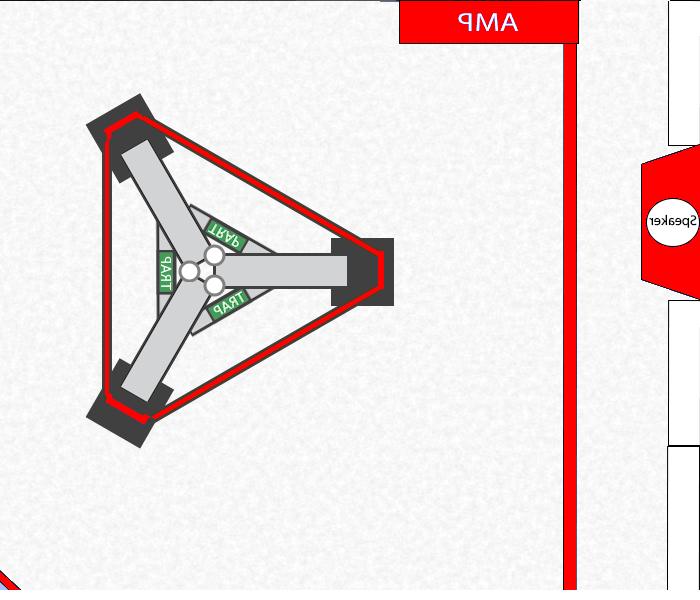
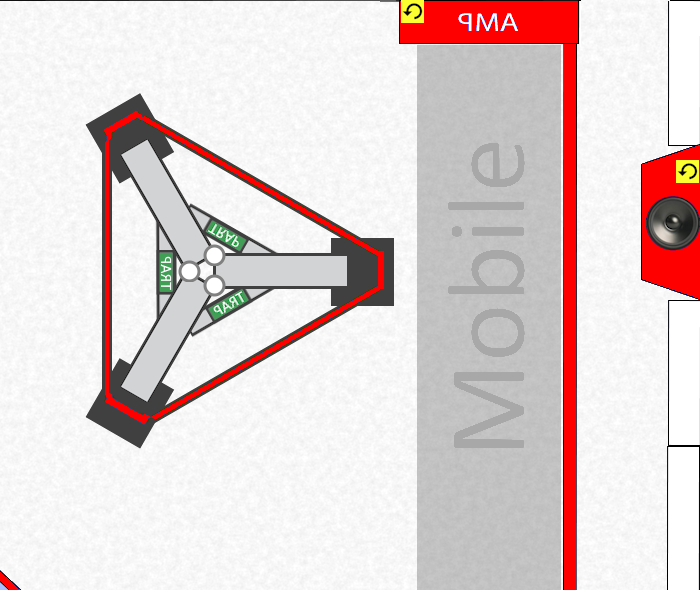
Fixed images and the ability to be mobile

Changed region(s): [[0.57, 0.06, 0.81, 0.99], [0.9, 0.27, 1.0, 0.42], [0.57, 0.0, 0.63, 0.06]]

diff --git a/server.js b/server.js
@@ -585,12 +585,18 @@ function connected(socket) {
         if (markerType == '')
             return; // marker is out of bounds
 
+
         // check the location of the marker to see if it is a valid placement for the gamestate
         //let markerPlacement = allianceGamePlay.playingField.getFieldLocation(drawMarker)
         
 
 
-
+        // the team is already mobile so skip the new marker
+        if (team.isMobile() && markerType == 'Mobility' && !(allianceGamePlay.getMarker(markerId)))
+            {
+                return;
+            }
+        
         // check to see if the marker does not already exist
         // if isMarkedOnce is false then we want to allow it to click multiple times
         let isMarkerPresent = false;
@@ -992,7 +998,7 @@ function initGame() //
     //console.log(fw.getMatchData())
 
     field.blue = new gp.Field(assets.blue, 700, 565)
-    field.red = new gp.Field(assets.red, 700, 600)
+    field.red = new gp.Field(assets.red, 700, 565)
 
     grid.blue = new gp.Grid(field.blue.width, field.blue.height, 25, 20)  
     grid.red = new gp.Grid(field.red.width, field.red.height, 25, 20)

diff --git a/Rooms/client.js b/Rooms/client.js
@@ -21,6 +21,7 @@ let scoreItems = {
     autonSpeakerScore: document.getElementById("autonSpeakerScore"),
     autonTrapCount: document.getElementById("autonTrapCount"),
     autonTrapScore: document.getElementById("autonTrapScore"),
+    autonMobileScore: document.getElementById("autonMobileScore"),
     teleopAmpCount: document.getElementById("teleopAmpCount"),
     teleopAmpScore: document.getElementById("teleopAmpScore"),
     teleopSpeakerCount: document.getElementById("teleopSpeakerCount"),
@@ -79,7 +80,7 @@ socket.on("drawfield", (gameField, gameGrid) => {
 })
 
 socket.on("placeMarker", (marker) => {
-    alert(JSON.stringify(marker))
+    //alert(JSON.stringify(marker))
     if (marker.isSingleSpace == "true" && marker.isMarkedOnce == "true")
         grid.drawImage(marker)
     else if (marker.isSingleSpace == "false" && marker.isMarkedOnce == "false")
@@ -105,7 +106,6 @@ socket.on("clear", () => {
 })
 
 socket.on("draw", (markers) => {
-    alert(JSON.stringify(markers))
     for (let index in markers) {
 
         let marker = markers[index]

diff --git a/Rooms/userInput.js b/Rooms/userInput.js
@@ -85,7 +85,7 @@ class Grid
         }
     }
     placeMarker(x, y, markerColor, gameState) {
-        alert("hello")
+        //alert("hello")
         this.ctx.fillStyle = 'rgba(' + markerColor.red + ',' + markerColor.green + ',' + markerColor.blue + ',' + markerColor.alpha +')'
         if (gameState == "auton") 
         {
@@ -250,6 +250,9 @@ class ScoreBoard {
         this.scoreItems.autonTrapScore.innerHTML = score
     }
 
+    renderAutonMobileScore(score) {
+        this.scoreItems.autonMobileScore.innerHTML = score
+    }
     
     renderTeleopAmpCount(score) {
         this.scoreItems.teleopAmpCount.innerHTML = score

diff --git a/Rooms/blue/index.html b/Rooms/blue/index.html
@@ -97,7 +97,7 @@
                                         </tr>
                                         <tr>
                                             <td scope="col">Mobile</td>
-                                            <td scope="col" class="text-center" id="autonMobileCount">0</td>
+                                            <td scope="col" class="text-center" id="autonMobileCount">-</td>
                                             <td scope="col" class="text-center" id="autonMobileScore">0</td>
                                         </tr>
                                     </tbody>

diff --git a/Rooms/blue/blue.js b/Rooms/blue/blue.js
@@ -37,6 +37,8 @@ socket.on('scoreboard', score =>
     scoreboard.renderAutonTrapCount(score.team.autonScore.TrapCount)
     scoreboard.renderAutonTrapScore(score.team.autonScore.TrapScore)
 
+    scoreboard.renderAutonMobileScore(score.team.autonScore.MobileScore)
+
     scoreboard.renderTeleopAmpCount(score.team.teleopScore.AmpCount)
     scoreboard.renderTeleopAmpScore(score.team.teleopScore.AmpScore)
 

diff --git a/Server/referee.js b/Server/referee.js
@@ -199,6 +199,7 @@ class ScoreLive {
                     break
                 case "Mobility":
                     this.sb.MobileScore += 2
+                    this.sb.AutonScore += 2
                     if(auton_markers[marker].teamNumber == team.teamNumber)
                     {
                         team.autonScore.MobileScore += 2

diff --git a/Server/gamePieces.js b/Server/gamePieces.js
@@ -164,7 +164,7 @@ class Markers
 
     isMobile()
     {
-        return this.markerType == 'Mobile'
+        return this.markerType == 'Mobility'
     }
 
     isOutOfBounds()
